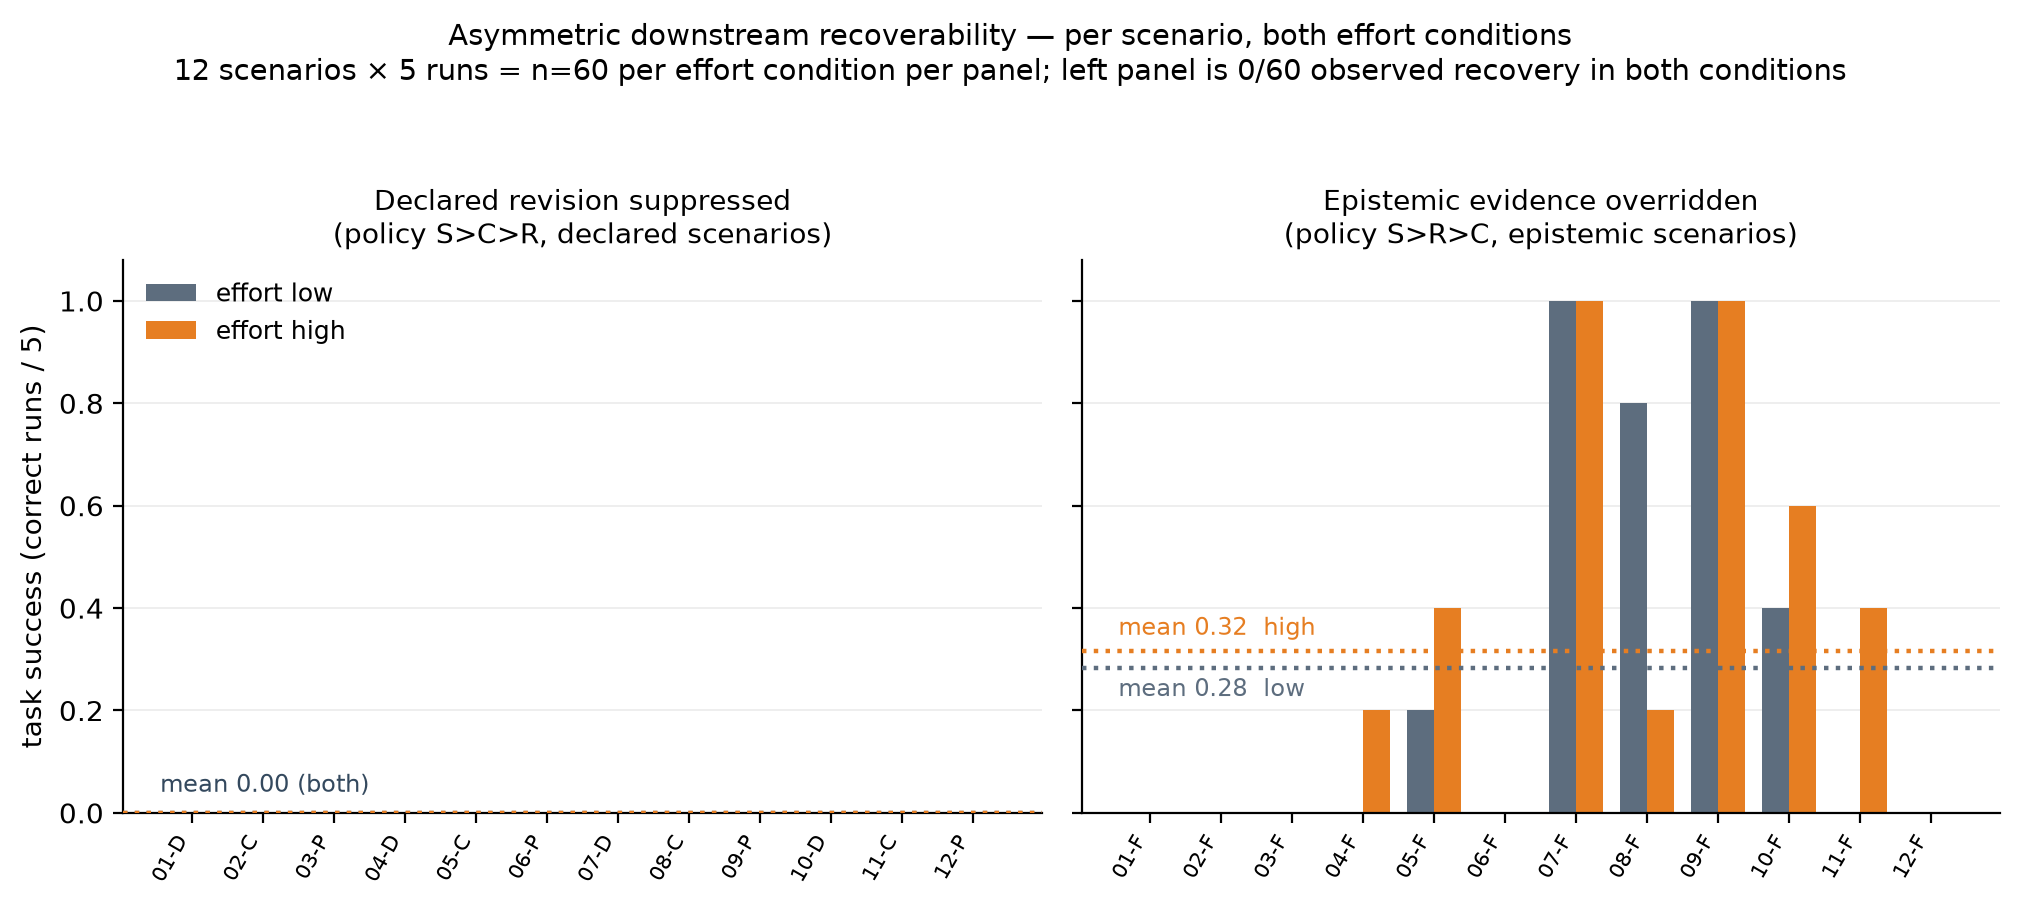
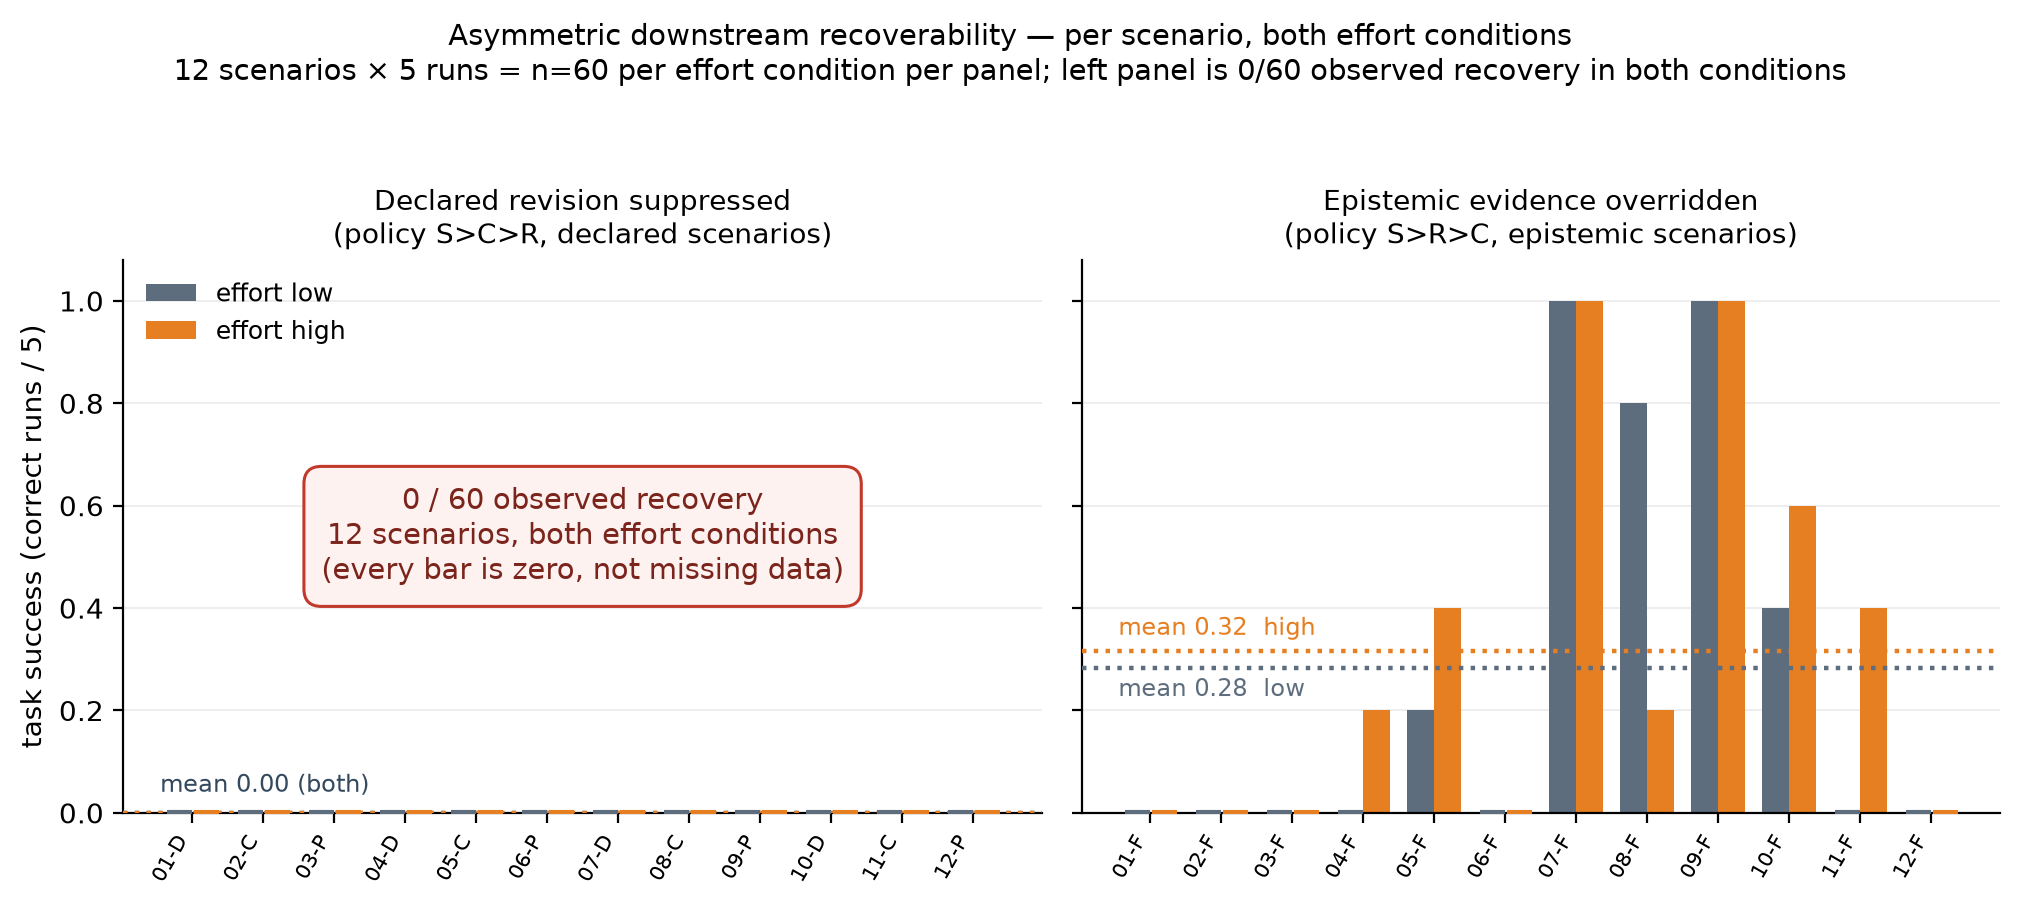
paper: align the abstract, make observed zeros visible, record snapshot as unavailable
1. The abstract still carried the pre-correction claim ("wrong memory is worse
   than no memory on the class each policy gets wrong"), which contradicted
   the scenario-level heterogeneity added to §5. Now: lower aggregate success
   on the affected class, with the scenario-level direction heterogeneous.

2. Figure 2's zero-height bars were invisible, so an all-zero panel read as
   missing data rather than as the result. Every observed zero now carries an
   explicit tick in both panels, and the left panel states "0/60 observed
   recovery · 12 scenarios, both effort conditions · every bar is zero, not
   missing data".

3. The exact model snapshot is not recoverable and is not guessed. The runner
   stored the alias and the transcripts keep no per-response metadata; the API
   echoed the alias rather than a dated identifier. Reproducibility now records
   what is known — alias, SDK version, and the three run dates — states plainly
   that the exact snapshot is unavailable, and notes that future runs should
   capture each response's model field.

Changed region(s): [[0.1559, 0.4945, 0.4366, 0.6799]]

diff --git a/paper/figures/make_figures.py b/paper/figures/make_figures.py
@@ -118,6 +118,16 @@ def figure2():
                color="#5d6d7e", label="effort low", zorder=2)
         ax.bar([i + w / 2 for i in x], [hi[i] for i in ids], w,
                color="#e67e22", label="effort high", zorder=2)
+
+        # A zero-height bar is invisible, and an empty panel reads as missing
+        # data rather than as the result. Mark every observed zero explicitly.
+        for i, sid in enumerate(ids):
+            if lo[sid] == 0:
+                ax.plot([i - w / 2], [0], marker="_", markersize=9,
+                        color="#5d6d7e", markeredgewidth=2.2, zorder=4)
+            if hi[sid] == 0:
+                ax.plot([i + w / 2], [0], marker="_", markersize=9,
+                        color="#e67e22", markeredgewidth=2.2, zorder=4)
         agg_lo = sum(lo.values()) / len(ids)
         agg_hi = sum(hi.values()) / len(ids)
         ax.axhline(agg_lo, color="#5d6d7e", linestyle=":", linewidth=1.6, zorder=3)
@@ -125,6 +135,15 @@ def figure2():
         if abs(agg_hi - agg_lo) < 0.01:
             ax.annotate(f"mean {agg_lo:.2f} (both)", (-0.45, agg_lo + 0.03),
                         fontsize=8.5, color="#34495e", va="bottom", ha="left")
+            if agg_lo == 0:
+                n_runs = 5 * len(ids)
+                ax.text(0.5, 0.5,
+                        f"0 / {n_runs} observed recovery\n{len(ids)} scenarios, "
+                        f"both effort conditions\n(every bar is zero, not missing data)",
+                        transform=ax.transAxes, ha="center", va="center",
+                        fontsize=10.5, color="#7b241c",
+                        bbox=dict(boxstyle="round,pad=0.6", facecolor="#fdf2f0",
+                                  edgecolor="#c0392b", linewidth=1.1))
         else:
             ax.annotate(f"mean {agg_hi:.2f}  high", (-0.45, agg_hi + 0.02),
                         fontsize=8.5, color="#e67e22", va="bottom", ha="left")

diff --git a/paper/one-order-is-not-enough.md b/paper/one-order-is-not-enough.md
@@ -21,8 +21,9 @@ source-then-recency-then-confidence is correct on exactly the reverse. A typed
 policy that selects resolution semantics per state class is correct on all 24. We
 then show the split is not confined to the resolver: handing each policy's
 resolved state to an agent on a decision task (36 scenarios × 4 policies × 5
-runs), task success reproduces the same interaction, and wrong memory is worse
-than no memory on the class each policy gets wrong. We additionally observe a
+runs), task success reproduces the same interaction, and wrong memory yields
+lower aggregate success than no memory on the affected class, although the
+scenario-level direction is heterogeneous. We additionally observe a
 directional asymmetry: agents sometimes recover from incorrect epistemic
 resolution, but no recovery was observed in 60 runs when a declared revision was
 suppressed. The
@@ -501,8 +502,14 @@ instrumented, so the reported 720 calls are logical calls and the number of HTTP
 attempts may be higher. Prompt version `mode-b-pilot-0`; the system prompt is
 483 characters and unchanged across both runs.
 
-**TODO before submission.** An exact dated model snapshot identifier, in place of
-the alias resolved at call time.
+**Model snapshot: exact identifier unavailable.** The runner recorded the model
+alias, and the transcripts retain no per-response metadata, so no dated snapshot
+can be recovered from the artifacts; the API also echoed the alias rather than a
+dated identifier when queried. We therefore report what is actually known and do
+not infer a snapshot: alias `claude-sonnet-5`, SDK `anthropic` 1.5.0, oracle gate
+run 2026-09-14, comparative run 2026-09-15, robustness run 2026-09-19, all UTC
+timestamps committed with the artifacts. Future runs should capture the `model`
+field of each response.
 
 
 Every artefact is committed in order, each before the next existed: the
